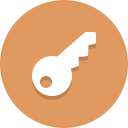
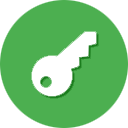
- Adicionado para o sistema fazer logout ao minimizar para a bandeja - Criado a possibilidade de adicionar um ponto manualmente - Alterar a cor do icone do programa para o mesmo verde utilizado no sistema

diff --git a/relatorioTrabalho.html b/relatorioTrabalho.html
@@ -1,0 +1,11 @@
+<!DOCTYPE html><html>
+<head><meta charset="UTF-8"><style>* {margin: 0; padding: 0} p {font-size: 10px;} table {border-collapse: collapse;} .left {float: left} .right {float: right} td, th {padding: 5px; border: 1px solid #666;} th {background-color: #4CAF50; color: #FFF;}</style></head>
+<body>
+<p>*Dias com número de pontos impares são ignorados</p><table class="left"><tr><th colspan="2">Horas trabalhadas por dia*</th></tr><tr><th>Data</th><th>Horas trabalhadas</th></tr>
+<tr><td>25/05/2016</td><td>0S</td></tr>
+</table>
+<table class="right"><tr><th>Horário dos pontos</th></tr><tr><th>Data</th></tr>
+<tr><td>25/05/2016 18:00:00</tr></td>
+<tr><td>25/05/2016 18:00:00</tr></td>
+</table>
+</body></html>

diff --git a/src/aquacoding/utils/MaskField.java b/src/aquacoding/utils/MaskField.java
@@ -108,6 +108,54 @@ public class MaskField {
 			}
 		});
 	}
+	
+	public static void horarioMask(TextField field) {
+		field.setOnKeyTyped(new EventHandler<KeyEvent>() {
+			@Override
+			public void handle(KeyEvent event) {
+				if(event.getCharacter().matches("\\d")) {
+					TextField tf = (TextField) event.getSource();
+					String newValue = tf.getText() + event.getCharacter();
+					//00:00:00
+					//12345678
+					
+					if(newValue.length() == 1) {
+						if(!event.getCharacter().matches("[0-2]")) {
+							event.consume();
+						}	
+					} else if(newValue.length() == 2) { 
+						if(!event.getCharacter().matches("[0-3]")) {
+							event.consume();
+						} else {
+							event.consume();
+							tf.setText(newValue+":");
+						}
+					} else if(newValue.length() == 4 || newValue.length() == 7) { 
+						if(!event.getCharacter().matches("[0-5]")) {
+							event.consume();
+						}
+					} else {
+						if(newValue.length() == 2) {
+							event.consume();
+							tf.setText(newValue+":");
+						} else if(newValue.length() == 5) {
+							event.consume();
+							tf.setText(newValue+":");
+						} else if(newValue.length() <= 8){
+							event.consume();
+							tf.setText(newValue);
+						} else {
+							event.consume();
+						}
+					}
+
+					tf.positionCaret(tf.getText().length());
+				} else {
+					event.consume();
+				}
+			}
+		});
+	}
 
 	public static void rgMaks(TextField field) {
 		field.setOnKeyTyped(new EventHandler<KeyEvent>() {

diff --git a/src/aquacoding/controller/RootLayoutController.java b/src/aquacoding/controller/RootLayoutController.java
@@ -11,6 +11,7 @@ import aquacoding.model.Empresa;
 import aquacoding.pontoacesso.Main;
 import aquacoding.utils.DatabaseConnect;
 import aquacoding.utils.Folders;
+import aquacoding.utils.Timeout;
 import javafx.event.ActionEvent;
 import javafx.fxml.FXML;
 import javafx.fxml.Initializable;
@@ -45,7 +46,7 @@ public class RootLayoutController implements Initializable {
 	MenuItem menuBarFeriasLista, menuBarFeriasNova;
 
 	@FXML
-	MenuItem menuBarCartoesVer, menuBarCartoesModelo, menuBarAjudaCartoesModelo;
+	MenuItem menuBarCartoesVer, menuBarCartoesModelo, menuBarAjudaCartoesModelo, menuBarCartoesPonto;
 
 	@FXML
 	MenuItem menuBarRelatorioTrabalho, menuBarRelatorioAcesso;
@@ -76,9 +77,7 @@ public class RootLayoutController implements Initializable {
 		});
 
 		menuBarSistemaDeslogar.setOnAction((ActionEvent e) -> {
-			Main.loggedUser = null;
-			Main.initLoginLayout();
-			Main.endRootLayout();
+			Timeout.logout();
 		});
 
 		menuBarSetorNovo.setOnAction((ActionEvent e) -> {
@@ -163,6 +162,10 @@ public class RootLayoutController implements Initializable {
 
 		menuBarCartoesModelo.setOnAction((ActionEvent e) -> {
 			Main.loadCartoesModeloView();
+		});
+		
+		menuBarCartoesPonto.setOnAction((ActionEvent e) -> {
+			Main.PontoNovoView();
 		});
 
 		menuBarRelatorioTrabalho.setOnAction((ActionEvent e) -> {

diff --git a/src/aquacoding/pontoacesso/Main.java b/src/aquacoding/pontoacesso/Main.java
@@ -130,6 +130,8 @@ public class Main extends Application {
 				public void handle(WindowEvent t) {
 					// Oculta a janela
 					hide(stage);
+					Timeout.logout();
+					loginStage.hide();
 				}
 			});
 
@@ -988,6 +990,18 @@ public class Main extends Application {
 			CadastroCartaoController controller = loader.getController();
 			controller.setFuncionario(funcionario);
 
+			rootLayout.setCenter(personOverview);
+		} catch (IOException e) {
+			e.printStackTrace();
+		}
+	}
+
+	public static void PontoNovoView() {
+		try {
+			primaryStage.setTitle(pageTitle + " - Cadastro de ponto");
+			FXMLLoader loader = new FXMLLoader();
+			loader.setLocation(ClassLoader.getSystemResource("resources/views/PontoNovo.fxml"));
+			AnchorPane personOverview = (AnchorPane) loader.load();
 			rootLayout.setCenter(personOverview);
 		} catch (IOException e) {
 			e.printStackTrace();

diff --git a/src/aquacoding/utils/Timeout.java b/src/aquacoding/utils/Timeout.java
@@ -19,7 +19,7 @@ public class Timeout implements Runnable {
 		ultimoEvento = Instant.now();
 	}
 	
-	private void logout() {
+	public static void logout() {
 		Main.loggedUser = null;
 		Main.initLoginLayout();
 		Main.endRootLayout();
@@ -37,7 +37,7 @@ public class Timeout implements Runnable {
 					Platform.runLater(new Runnable() {
 						@Override
 						public void run() {
-							logout();
+							Timeout.logout();
 						}
 					});
 				}
